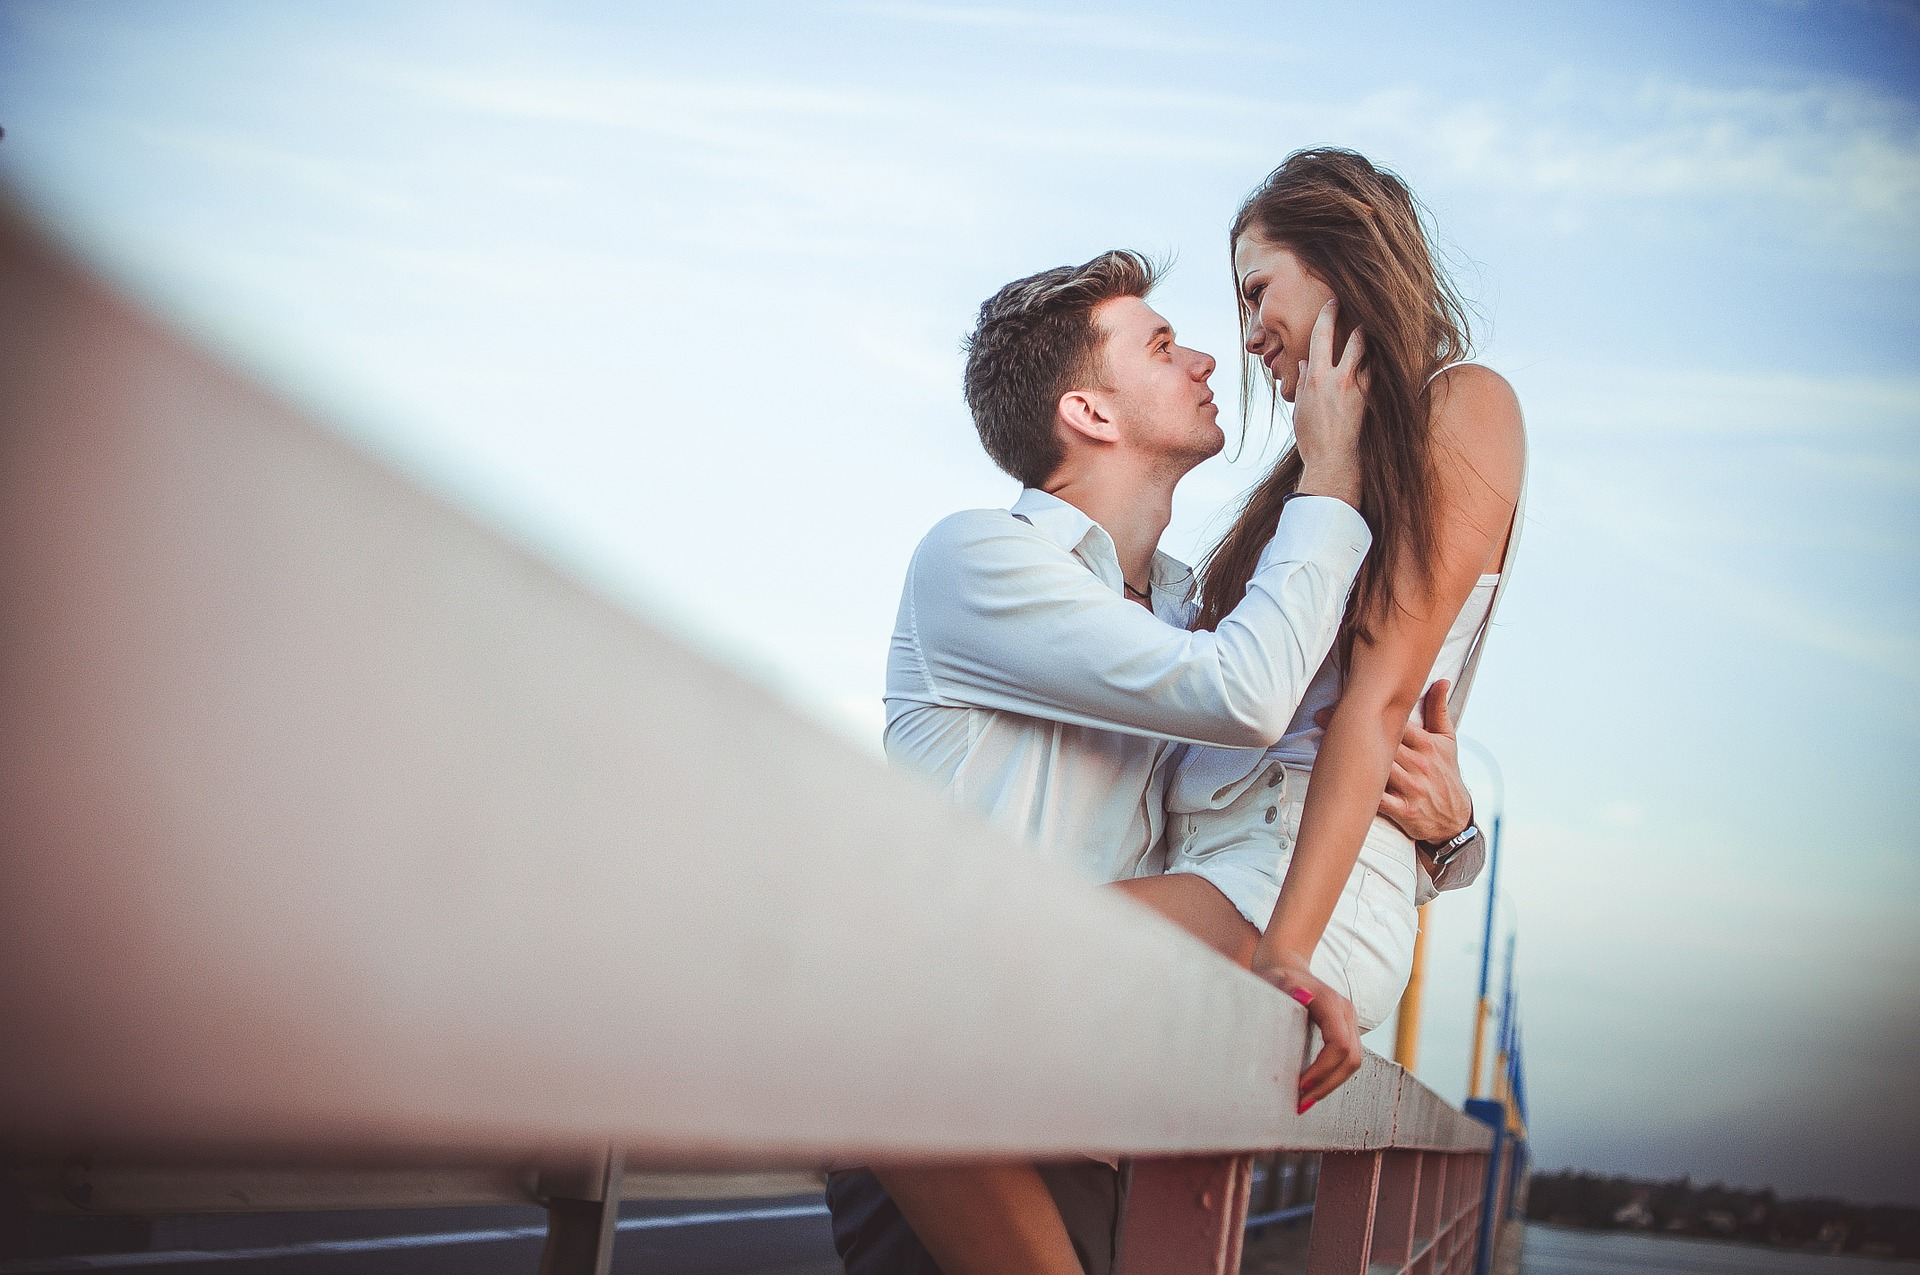
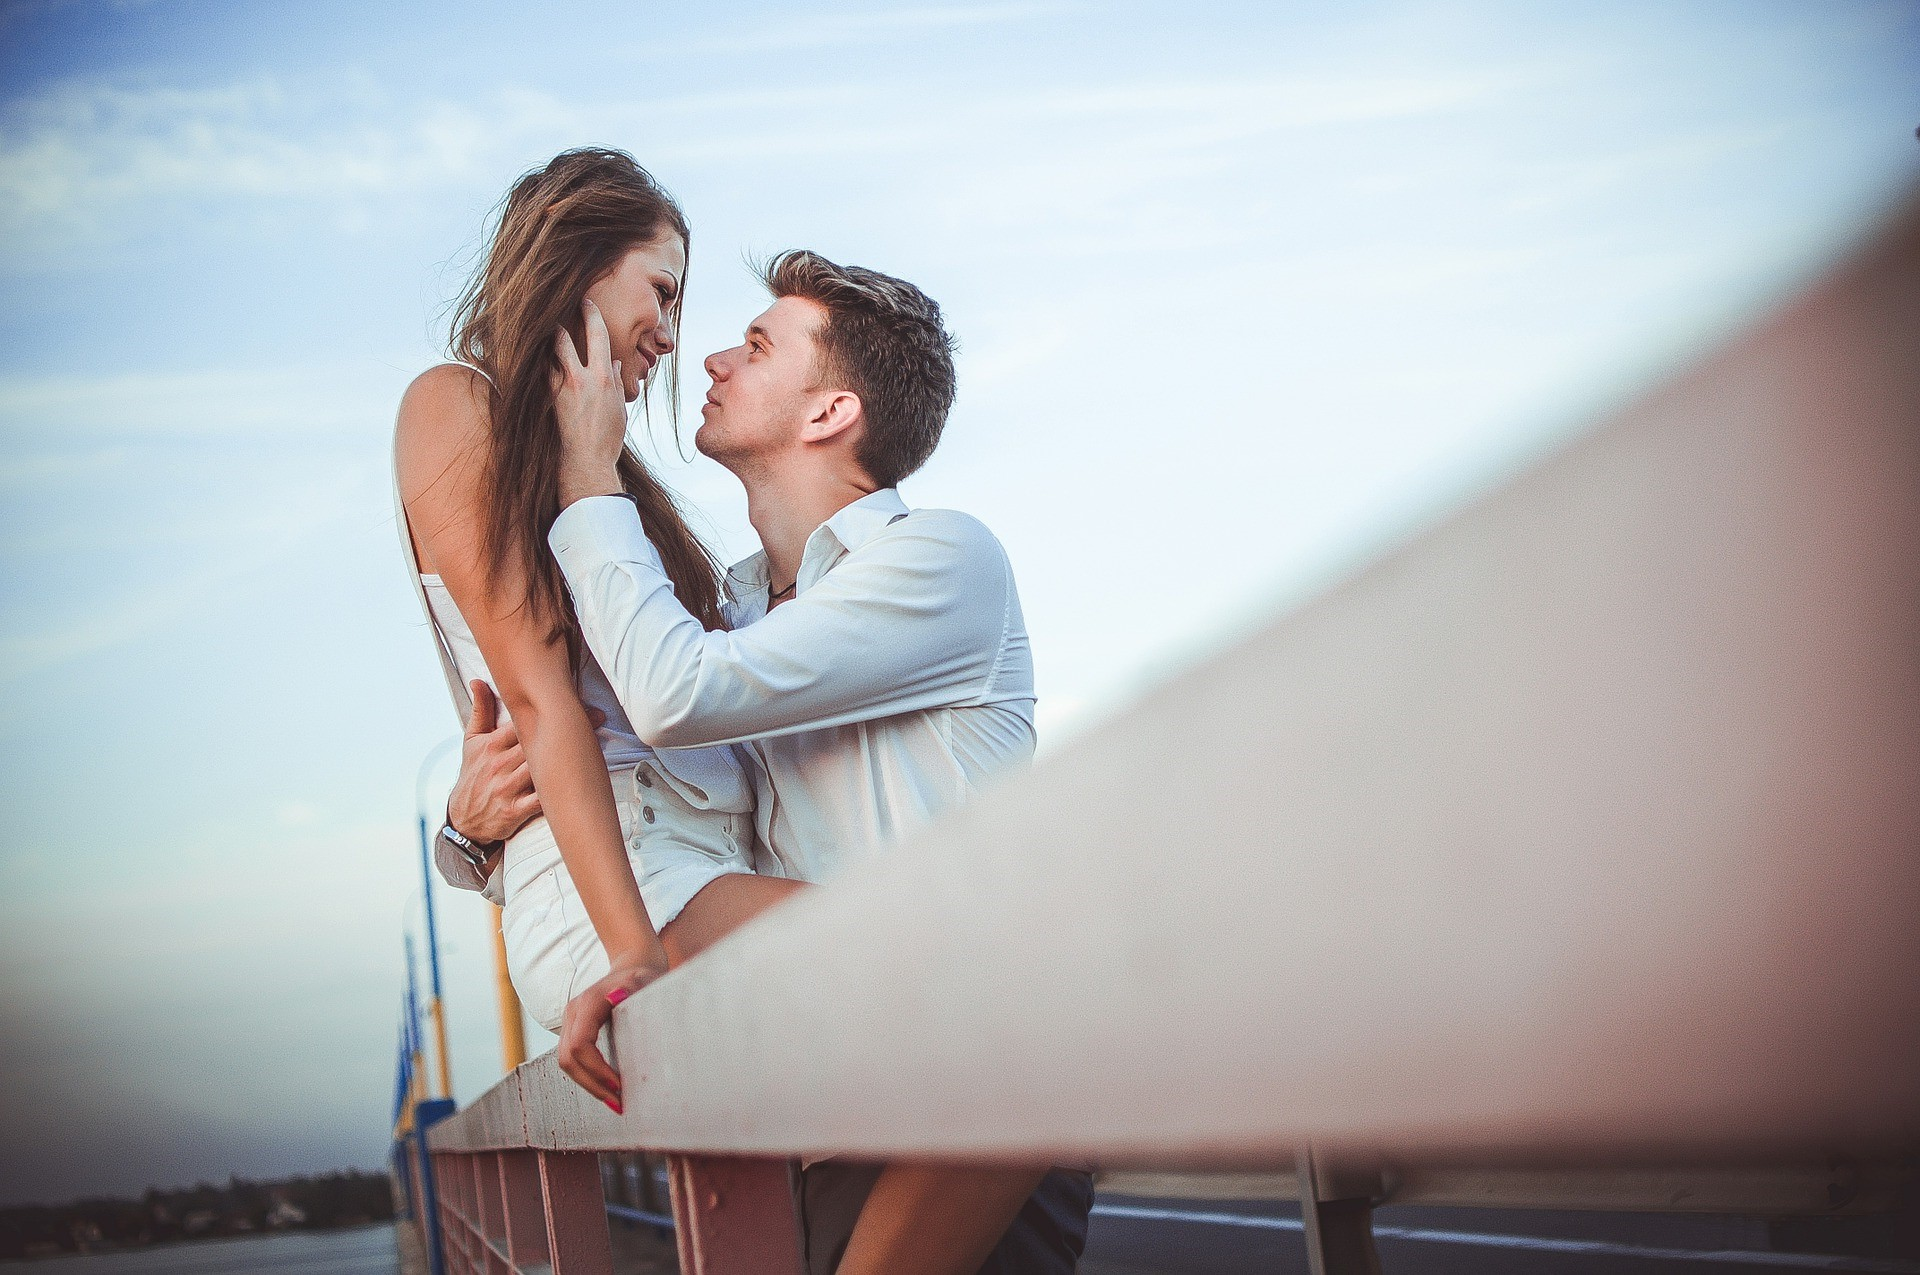
(feat)about us page

diff --git a/client/src/Components/ContactUs/ContactUs.js b/client/src/Components/ContactUs/ContactUs.js
@@ -49,12 +49,35 @@ class ContactUs extends Component {
         <link href="//netdna.bootstrapcdn.com/bootstrap/3.2.0/css/bootstrap.min.css" rel="stylesheet" id="bootstrap-css" />
         <script src="//netdna.bootstrapcdn.com/bootstrap/3.2.0/js/bootstrap.min.js"></script>
         <script src="//code.jquery.com/jquery-1.11.1.min.js"></script>
-        <div className="aboutus_container">
-          <h1 className="contactus_about_title">About Us</h1>
-          <div className="contactus_about_div">
-            <p className="contactus_about">An About Us Page is a page on your website that tells your readers all about you. It includes a detailed description covering all aspects of your business and you as entrepreneurs. This includes the products or services you are offering, how you came into being as a business, your mission and vision, your aim, and maybe something about your future goals too. Your “About Us” page is your perfect opportunity to tell a compelling story about yourself and your business.</p>
-          </div>
-        </div>
+        <link rel="stylesheet" href="https://maxcdn.bootstrapcdn.com/bootstrap/3.3.7/css/bootstrap.min.css" />
+
+
+        {/* About Us Form  */}
+        <section>
+	<div class="container-fluid">
+        	<div class="row about-bg">
+                <div class="col-md-6">   
+                </div>
+                <div class="col-md-6 col-sm-6 col-xs-12 about-bg-layer">
+                <div class="">
+                <div class="about-content-box">
+                <div class="about-heading">
+                    <h1>ABOUT US</h1>
+                    <h2>Hayat Box</h2>
+                    <p>Wedding Planner</p>
+                </div>
+                    <div class="about-txt">
+                    	<p>Lorem ipsum dolor sit amet, consectetur adipiscing elit, sed do eiusmod tempor incididunt ut labore et dolore magna aliqua. Ut enim ad minim veniam, quis nostrud exercitation ullamco laboris nisi ut aliquip ex ea commodo consequat. Duis aute irure dolor in reprehenderit in voluptate velit esse cillum dolore eu fugiat nulla pariatur. Excepteur sint occaecat cupidatat non proident, sunt in culpa qui officia deserunt mollit anim id est laborum.<br/>
+                        Lorem ipsum dolor sit amet, consectetur adipiscing elit, sed do eiusmod tempor incididunt ut labore et dolore magna aliqua. Ut enim ad minim veniam, quis nostrud exercitation ullamco laboris nisi ut aliquip ex ea commodo consequat. Duis aute irure dolor in reprehenderit in voluptate velit esse cillum dolore eu fugiat nulla pariatur. Excepteur sint occaecat cupidatat non proident, sunt in culpa qui officia deserunt mollit anim id est laborum.
+                        </p>
+                    </div>
+                    </div>
+                </div>
+			</div>
+        </div> 
+    </div>
+</section>
+        {/* End Of About Us form */}
 
         {/* Contact Us Form */}
         <div class="contact-jumbotron contact-jumbotron-sm">
@@ -71,19 +94,19 @@ class ContactUs extends Component {
     <div class="row">
         <div class="col-md-8">
             <div class="well well-sm">
-                <form>
+                <form onSubmit={this.handleSaveMessage}>
                 <div class="row">
                     <div class="col-md-6">
                         <div class="form-group">
                             <label for="name">
                                 Name</label>
-                            <input type="text" class="form-control" id="name" placeholder="Enter name" required="required" />
+                            <input type="text" class="form-control" name="name" placeholder="Enter name" required="required" onChange={this.nameChange} />
                         </div>
 
                         <div class="form-group">
                             <label for="subject">
                                 Phone</label>
-                            <input type="text" class="form-control" id="phone" placeholder="Enter phone" required="required" />
+                            <input type="text" class="form-control" name="phone" placeholder="Enter phone" required="required" onChange={this.phoneChange}/>
                         </div>
                     </div>
                     <div class="col-md-6">
@@ -91,7 +114,7 @@ class ContactUs extends Component {
                             <label for="name">
                                 Message</label>
                             <textarea name="message" id="message" class="form-control" rows="9" cols="25" required="required"
-                                placeholder="Message"></textarea>
+                                placeholder="Message" onChange={this.messageChange}></textarea>
                         </div>
                     </div>
                     <div class="col-md-12">

diff --git a/client/src/Components/ContactUs/ContactUs.css b/client/src/Components/ContactUs/ContactUs.css
@@ -4,30 +4,35 @@
 
 /* *****About Us Dev***** */
 
-.contactus_about_div{
-    background-size: cover;
-    padding: 25px;
-}
-.contactus_about_title {
-    padding-left: 600px;
-    padding-right: 550px;
-    font-size: 50px;
-    font-family: 'Times New Roman', Times, serif;
-    color: rebeccapurple;
-    font-style: italic;
-    font-weight: bold;
+.about-bg{
+	background-image:url(../Home/imgs/couple-498484_1920.jpg);
+	background-size:cover;
+	background-repeat:no-repeat;
+	background-attachment:fixed;
 }
 
-.contactus_about {
-    border-style: groove;
-    border-radius: 500px;
-    font: 400 100px/1.5 'Pacifico', Helvetica, sans-serif;
-    text-shadow: 3px 3px 0px rgba(0,0,0,0.1), 7px 7px 0px rgba(0,0,0,0.05);
-    font-size: 20px;
-    color: black;
-    background-color: rgb(226, 233, 241)  ;
-    opacity: 0.8;
-    text-align: center;
+.about-heading > p{
+	font-size:24px;
+	font-weight:bold;
+}
+
+.about-txt > p{
+	font-size:18px;
+	text-align:center;
+	
+}
+.about-content-box{
+	padding-top:100px;
+	padding-bottom:100px;
+	padding-left:70px;
+	padding-right:70px;
+	color:#fff;
+}
+
+.about-bg-layer{
+	background-color:rgba(153,187,214,0.6);
+	height:200%;
+	margin:0px;
 }
 
 /* *****End Of About Us Dev***** */
